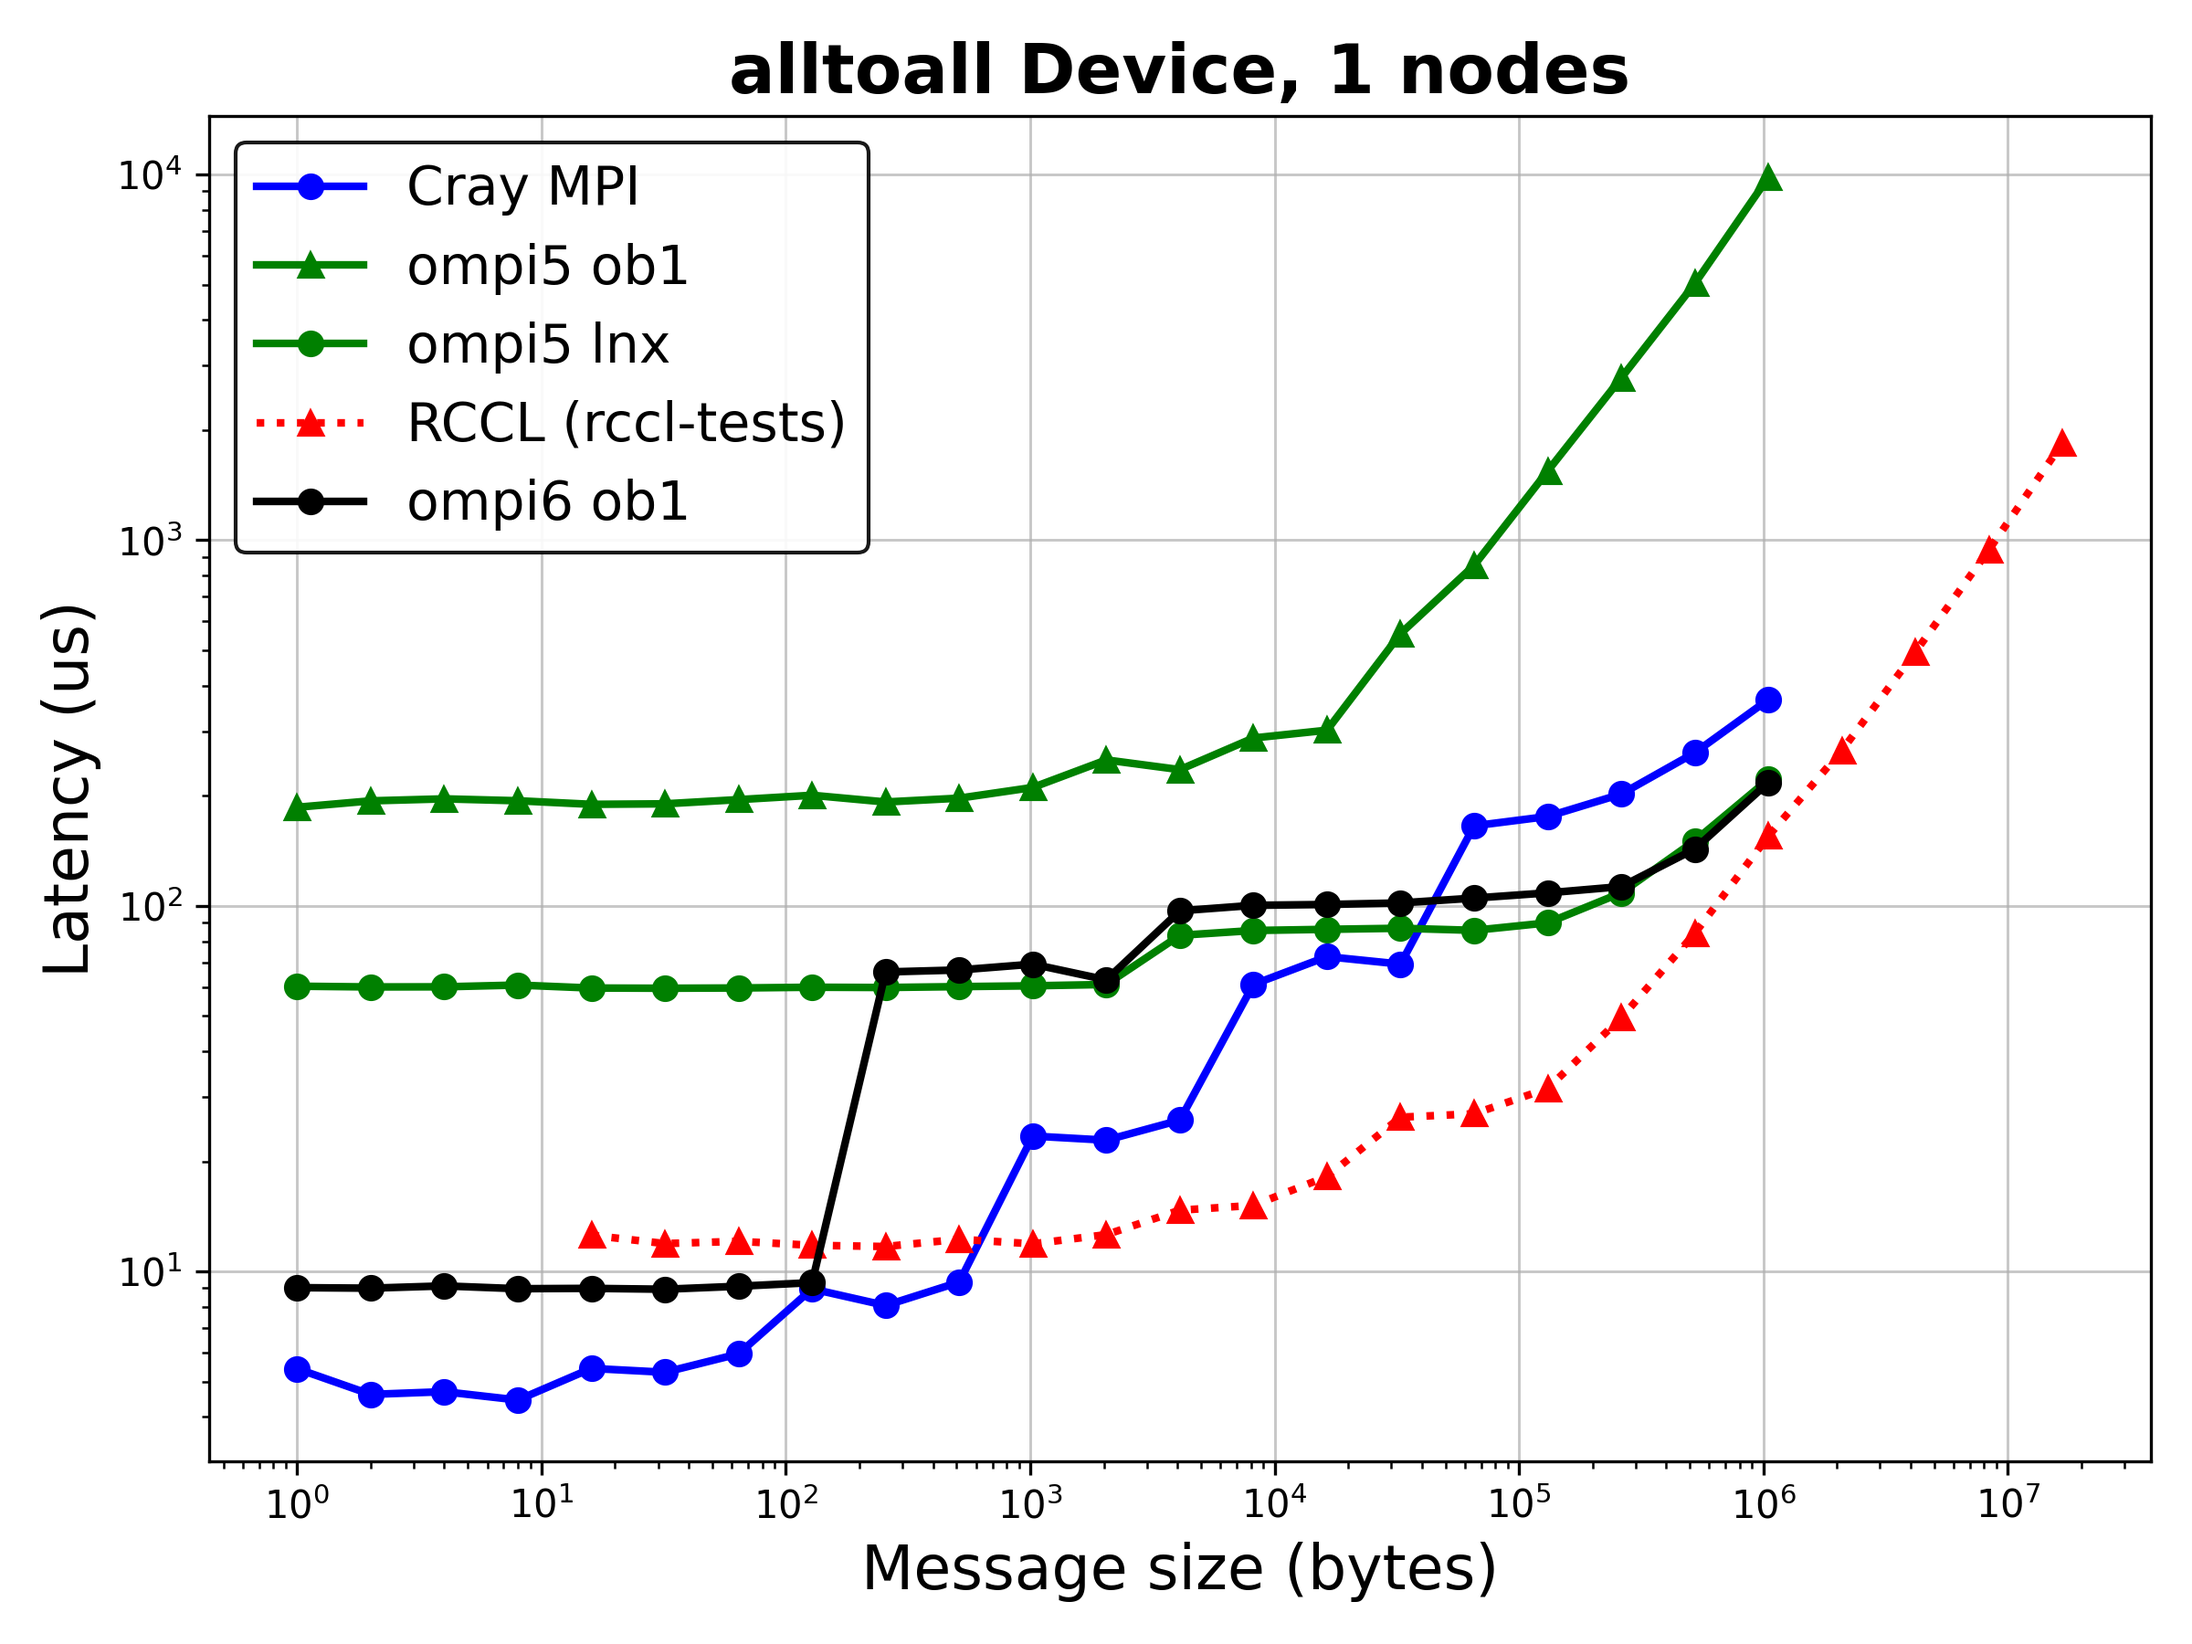
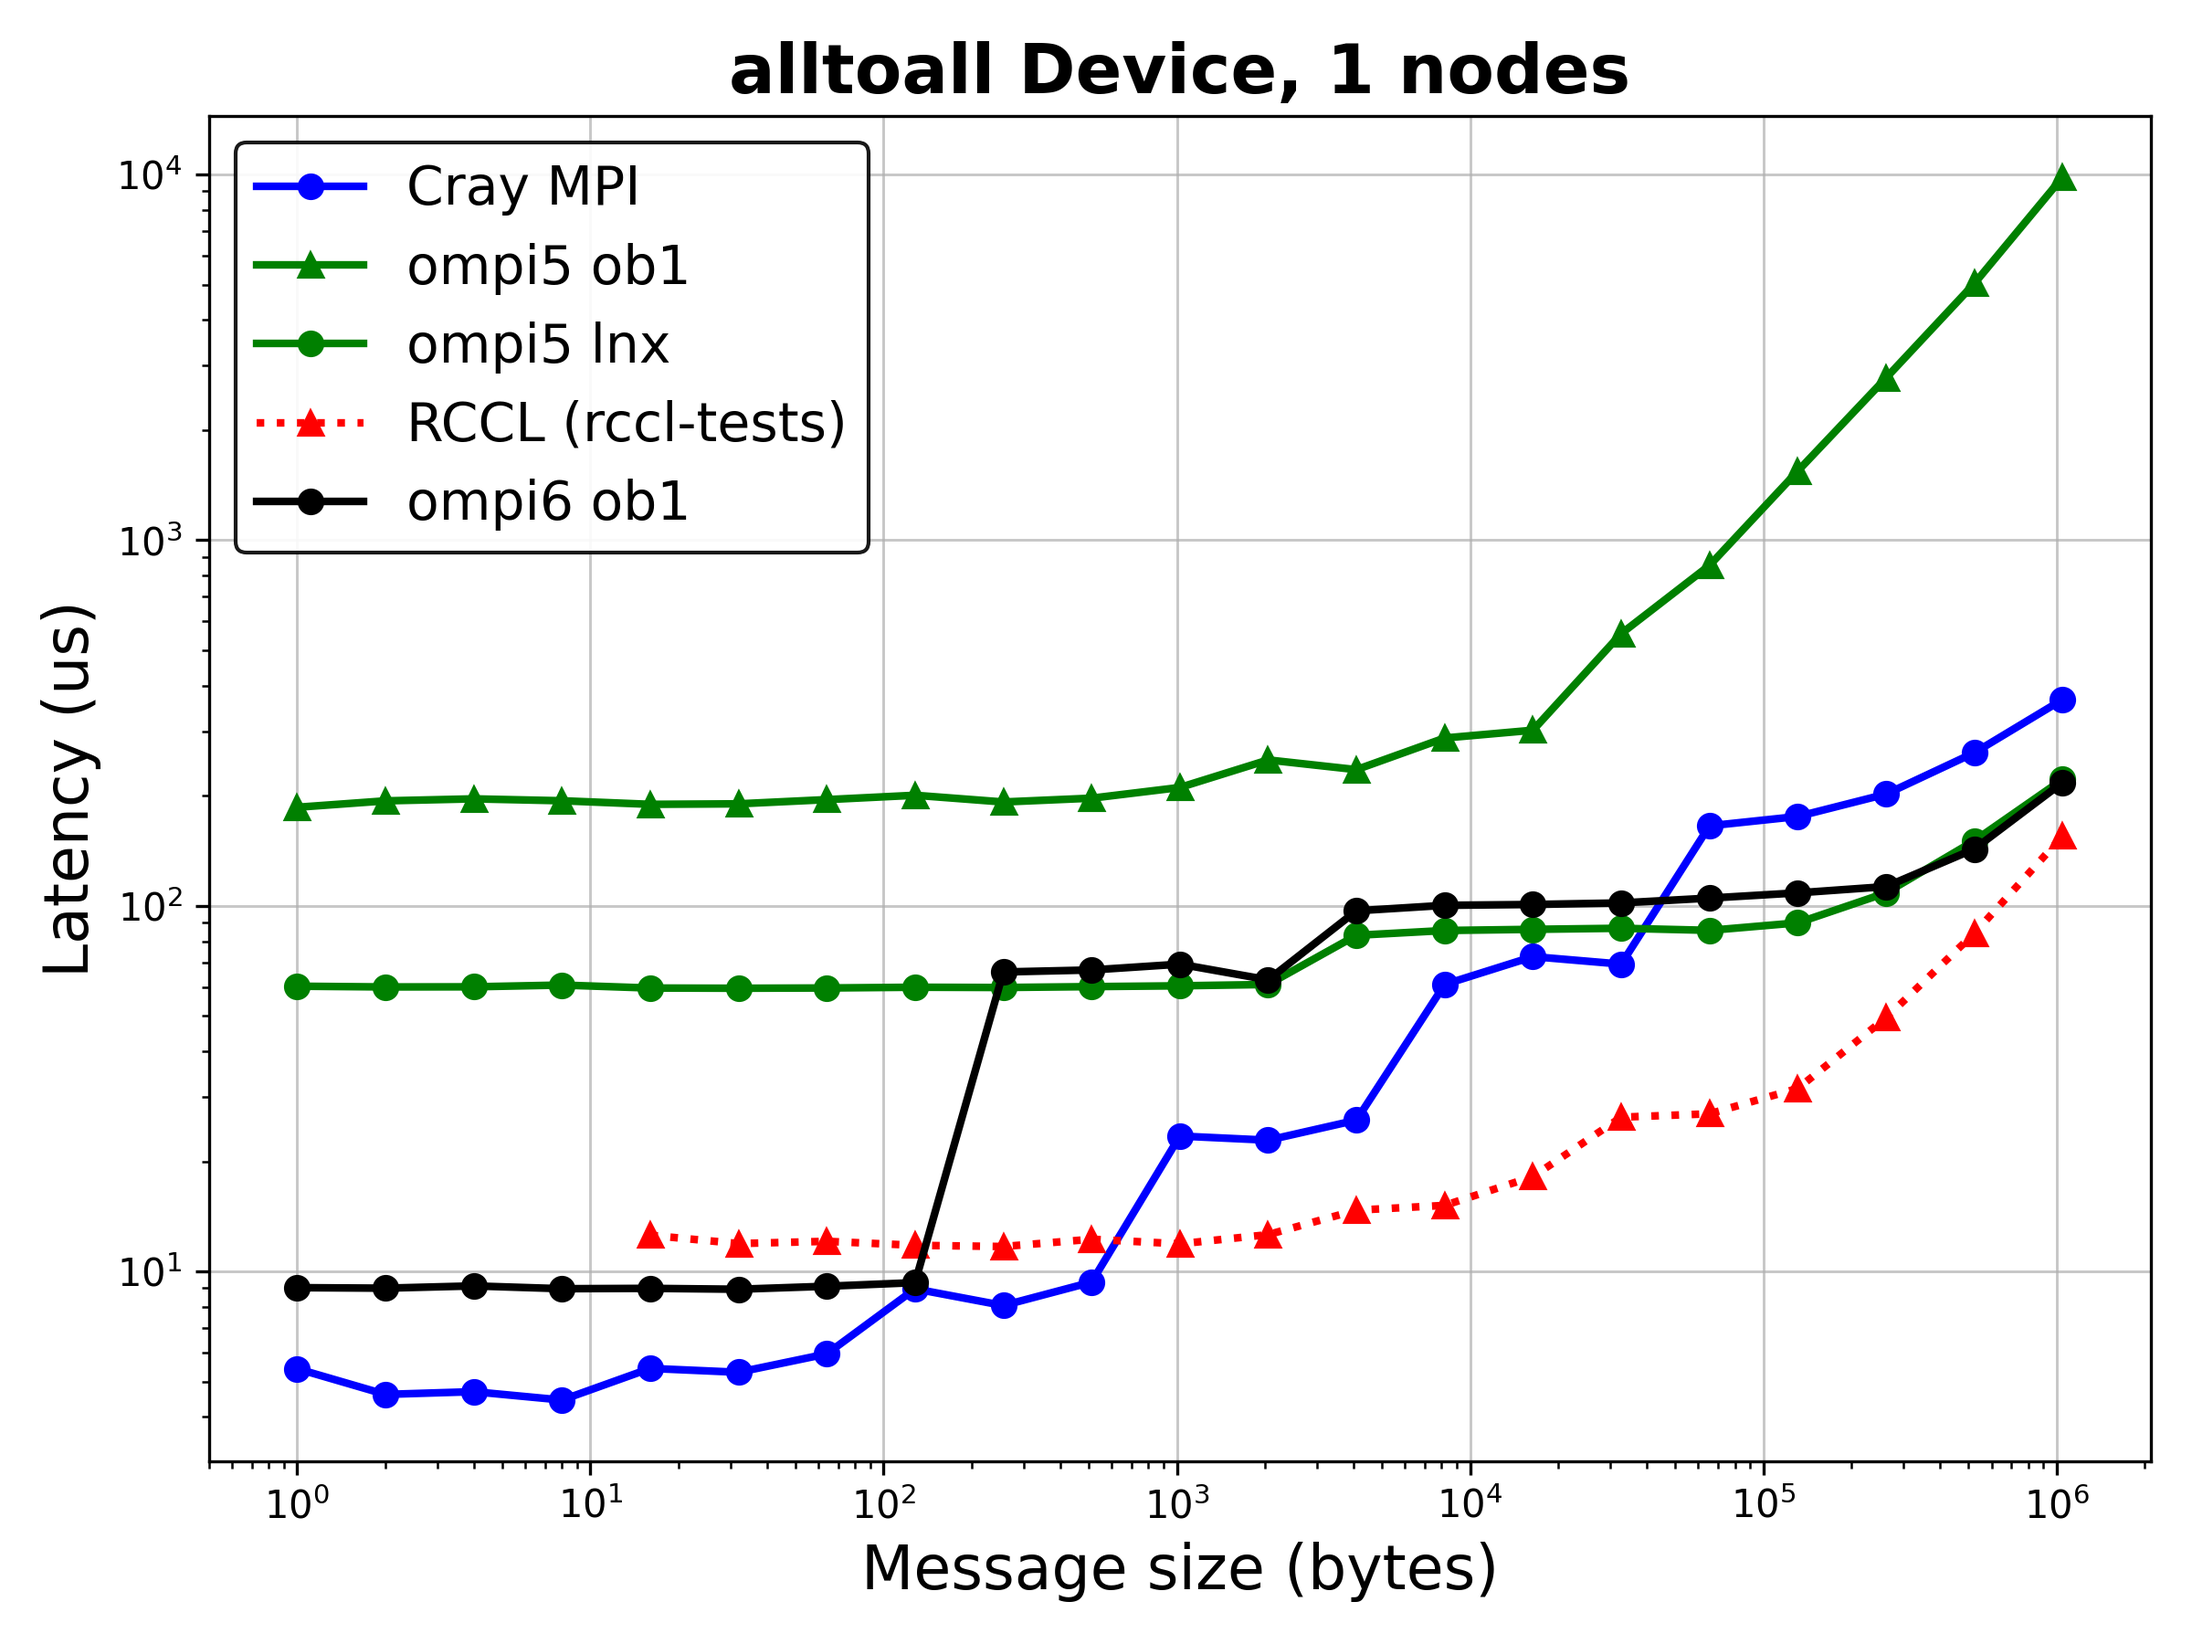
change max threshold for XCCL

diff --git a/plots/plot.py b/plots/plot.py
@@ -66,8 +66,8 @@ def parse_nccl_file(path):
 
             sizes.append(size)
             values.append(time_us)
-#            if size >= 1048576:
-#                break
+            if size >= 1048576:
+                break
 
     quantity = "Latency"
     unit = "us"
